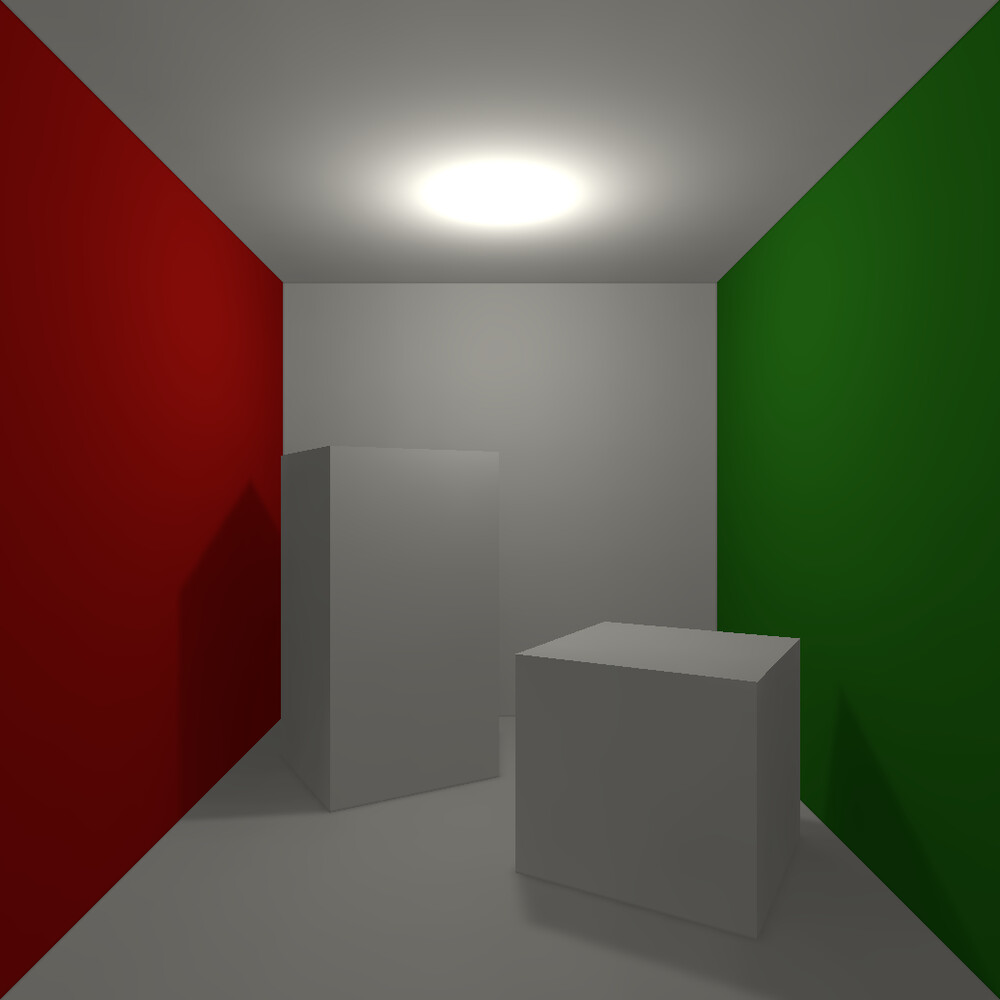
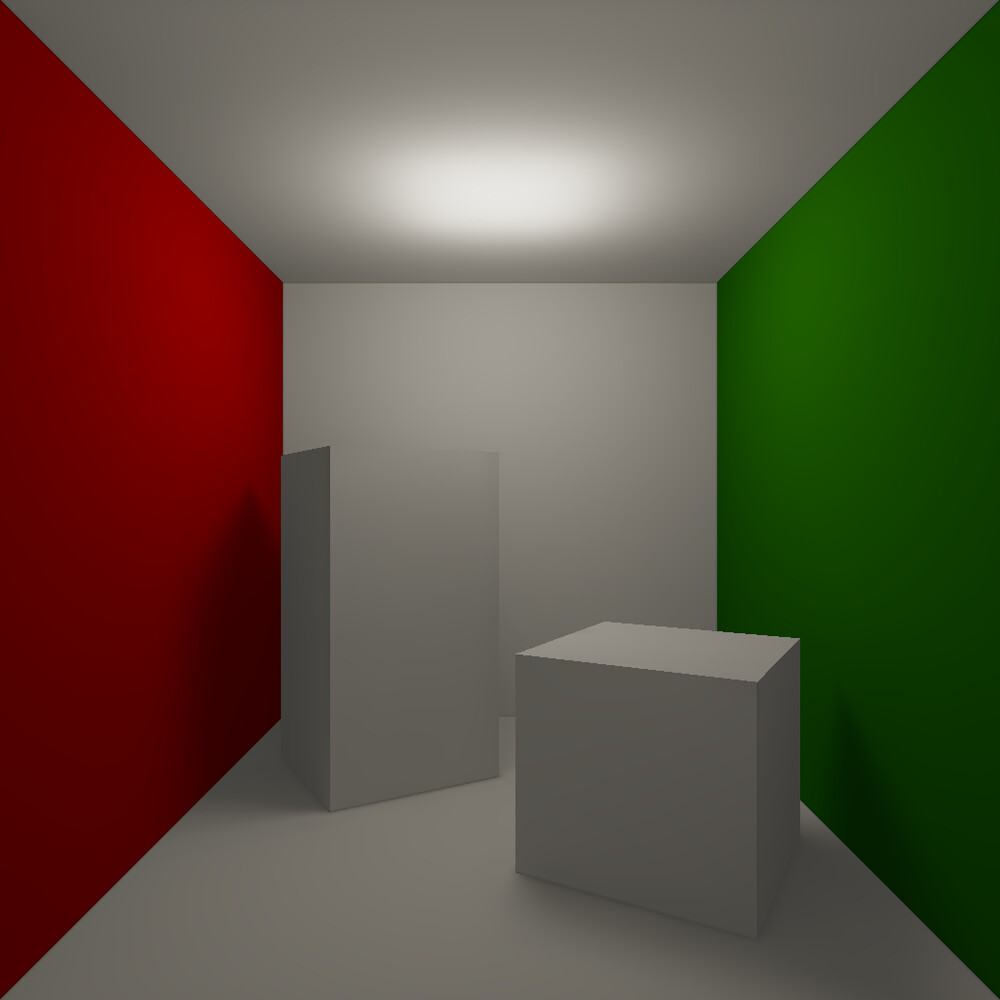
Lightmapper post: hierarchical radiosity - a section on the bounce between walls with pictures of how it links a texel, every picture baked again with patches under AgX at four units a texel or finer, a Cornell box lit by a glowing panel set in its ceiling, and its switchable version under sixteen l

Changed region(s): [[0.403, 0.155, 0.589, 0.248]]

diff --git a/blog/lightmapper/index.html b/blog/lightmapper/index.html
@@ -4,9 +4,9 @@
 <meta charset="utf-8">
 <meta name="viewport" content="width=device-width, initial-scale=1">
 <title>Hammerite's lightmapper — Misukatti Interactive</title>
-<meta name="description" content="How Hammerite's GPU radiosity lightmapper works, step by step: BVHs and charts, direct light, progressive radiosity through irradiance probes, four switchable light slots per surface, colour bleed for switchable light, refraction, caustics and reflection in water, how baked and real-time light meet in the shader, and reproducible bakes.">
+<meta name="description" content="How Hammerite's GPU radiosity lightmapper works, step by step: BVHs and charts, direct light, hierarchical radiosity between the walls, four switchable light slots per surface, colour bleed for switchable light, refraction, caustics and reflection in water, how baked and real-time light meet in the shader, and reproducible bakes.">
 <meta property="og:title" content="Hammerite's lightmapper">
-<meta property="og:image" content="https://misukatti.fi/blog/lightmapper/cornell-bleed-on.jpg">
+<meta property="og:image" content="https://misukatti.fi/blog/lightmapper/cornell-panel.jpg">
 <meta property="og:url" content="https://misukatti.fi/blog/lightmapper/">
 <meta property="og:type" content="article">
 <link rel="canonical" href="https://misukatti.fi/blog/lightmapper/">
@@ -37,15 +37,15 @@
 			<p class="post-meta"><time datetime="2026-10">October 2026</time> · Hammerite</p>
 			<h1>Hammerite's lightmapper</h1>
 			<p class="post-lede">Hammerite bakes light into lightmaps on the GPU: direct light with soft
-			shadows, and bounced light by progressive radiosity through a set of irradiance probes. A stealth
+			shadows, and bounced light by hierarchical radiosity between the walls. A stealth
 			game also needs light that changes while the game runs, so every surface holds four switchable
 			lights next to its static light, and the switchable light bounces in colour too. This post goes
 			through the whole pipeline, step by step.</p>
 		</header>
 
 		<figure>
-			<img src="cornell-bleed-on.jpg" alt="A Cornell box baked in Hammerite: a red wall on the left, a green wall on the right, two white blocks, lit by a switchable lamp under the ceiling, with red and green light bounced onto the blocks and the floor" width="1000" height="1000">
-			<figcaption>A Cornell box, baked in Hammerite at 4 units a texel and lit by one switchable lamp.</figcaption>
+			<img src="cornell-panel.jpg" alt="A Cornell box baked in Hammerite: a red wall on the left, a green wall on the right, two white blocks, lit by a glowing panel set into the ceiling, with red and green light bounced onto the blocks, the floor and the ceiling" width="1000" height="1000">
+			<figcaption>A Cornell box, baked in Hammerite at 4 units a texel, lit by a glowing panel set into the ceiling.</figcaption>
 		</figure>
 
 		<h2>Why lightmaps</h2>
@@ -57,8 +57,9 @@
 		Hammerite bakes everything it can, and makes the baked light switchable.</p>
 		<p>The first version, in 2024, did radiosity on the CPU, and it did not scale. Classic radiosity
 		trades light between every pair of patches that can see each other, so the work grows with the
-		square of the level. In 2025 I moved the whole bake to the GPU, as compute shaders, and changed how
-		the bounce is done.</p>
+		square of the level. In 2025 I moved the whole bake to the GPU, as compute shaders, and relayed the
+		bounce through light probes. In 2026 the bounce went back to the walls, as hierarchical radiosity,
+		which gives each pair of surfaces only as much detail as the light between them needs.</p>
 
 		<h2>The pipeline</h2>
 		<p>A bake has four parts. The level is prepared on the CPU, the light is transferred on the GPU, the
@@ -109,9 +110,9 @@
 						<text x="658" y="63">Texels</text>
 						<text x="58" y="203">Direct</text>
 						<text x="178" y="203">Water</text>
-						<text x="298" y="203">Gather</text>
+						<text x="298" y="203">Links</text>
 						<text x="418" y="203">Bounce ×N</text>
-						<text x="538" y="203">Distribute</text>
+						<text x="538" y="203">To texels</text>
 						<text x="658" y="203">Settle slots</text>
 						<text x="58" y="343">Group</text>
 						<text x="178" y="343">Pack</text>
@@ -127,17 +128,17 @@
 						<text x="658" y="483">light()</text>
 					</g>
 					<g fill="#c9bd9a" font-size="10.5">
-						<text x="58" y="104">walls and air</text>
+						<text x="58" y="104">for what moves</text>
 						<text x="178" y="104">light groups</text>
 						<text x="298" y="104">brushes, props</text>
 						<text x="418" y="104">planar projection</text>
 						<text x="538" y="104">faces that join</text>
-						<text x="658" y="104">one patch each</text>
+						<text x="658" y="104">trees of squares</text>
 						<text x="58" y="244">4 shadow rays</text>
 						<text x="178" y="244">mirrors, caustics</text>
-						<text x="298" y="244">patches → probes</text>
-						<text x="418" y="244">probes → probes</text>
-						<text x="538" y="244">probes → texels</text>
+						<text x="298" y="244">refined to the light</text>
+						<text x="418" y="244">gather, push, pull</text>
+						<text x="538" y="244">nine leaves each</text>
 						<text x="658" y="244">brightest four</text>
 						<text x="58" y="384">≤ 4 lights a set</text>
 						<text x="178" y="384">512² atlases</text>
@@ -175,11 +176,11 @@
 		watchdog never kills it. A cancelled bake puts the old lighting back.</p>
 
 		<h2>Preparing the level</h2>
-		<p><strong>Probes.</strong> The bounce goes through light probes, so they are placed first.
-		<em>Surface probes</em> sit on a 64-unit grid over every wall and every face of detail brushwork, one
-		unit out into the air, and each gets the area of surface around it. <em>Volume probes</em> sit on a
-		64-unit lattice through the air, kept away from the walls. Both are irradiance probes: they measure
-		the light that arrives at a point.</p>
+		<p><strong>Probes.</strong> Things that move, a guard or a crate, are lit from light probes, so they
+		are placed first. <em>Surface probes</em> sit on a 64-unit grid over every wall and every face of
+		detail brushwork, one unit out into the air. <em>Volume probes</em> sit on a 64-unit lattice through
+		the air, kept away from the walls. Both are irradiance probes: they measure the light that arrives at
+		a point.</p>
 		<p><strong>Lights.</strong> Every light is static or switchable, decided by its entity type. Switchable
 		lights are put into <em>light groups</em>: lights with the same group name share one slot and are
 		switched together, and a light with no group gets one of its own.</p>
@@ -201,9 +202,9 @@
 			<figcaption>The lightmap density view: one checker square is one texel.</figcaption>
 		</figure>
 
-		<p><strong>Texels.</strong> Each texel becomes one <em>patch</em>, the unit radiosity works with. It
-		gets a position, a normal and a reflectance, which is the albedo of the texture under it,
-		converted from sRGB to linear. A ring of padding texels goes around every face. How much light a
+		<p><strong>Texels.</strong> Each texel gets a position, a normal and a reflectance, which is the albedo
+		of the texture under it, converted from sRGB to linear. The texels of each room's walls are then
+		grouped into trees of squares for the bounce, described below. A ring of padding texels goes around every face. How much light a
 		padding texel keeps depends on what meets the face at that edge: all of it past an open edge, none
 		of it behind a wall that stands against it. This keeps a wall's light from bleeding under the floor
 		next to it.</p>
@@ -237,35 +238,84 @@
 		BT.709 luma of the light, because its colour is applied when the level is drawn. That is what lets a
 		lamp change colour at runtime.</p>
 
-		<h2>Bounce: radiosity through irradiance probes</h2>
+		<h2>Bounce: hierarchical radiosity</h2>
 		<p>In classic radiosity every patch sends light to every other patch it can see, weighted by the
 		<em>form factor</em>, the share of one surface that another one sees:</p>
 		<p class="formula">F = cos θ<sub>s</sub> · cos θ<sub>r</sub> · A<sub>s</sub> / (π d²)</p>
-		<p>With 4 million patches that is far too many pairs. Hammerite relays the bounce through the
-		probes instead, in three steps:</p>
+		<p>With millions of texels that is far too many pairs. Quake 2's radiosity cut the walls into patches
+		of one size, 64 units across by default, and traded light between every pair of them. That keeps the
+		pairs down, but a shadow cast by bounced light is then a blur 64 units wide, and halving the patches
+		makes sixteen times the pairs.</p>
+		<p>Hammerite uses hierarchical radiosity, after Hanrahan, Salzman and Aupperle. Each room's walls in
+		each plane become a quadtree of squares on the lightmap's texel grid, from the whole wall down to 8
+		units or one texel. Each prop becomes an octree of cubes. And each room as a whole is a
+		<em>cluster</em> of all of them, which only sends, like a body giving off light evenly in every
+		direction.</p>
+		<p>Two nodes are joined by a <em>link</em> at the coarsest level where little light passes between
+		them. How much could pass is the receiver's albedo and area, times the sender's light, times the
+		largest form factor the two could have if they were as close as their sizes let them be. When that
+		is more than a hundredth of what a leaf throws back, the larger end is split into its children and
+		each is tried again. A far, dim wall reaches a whole room in one link, while a near, bright one is
+		linked square by square.</p>
+
+		<figure class="atlas-row two">
+			<div>
+				<img src="radiosity-far.jpg" alt="A long hall seen from the end with the light. Its walls and ceiling are covered in coloured squares: large red, purple and blue ones near the camera, and small yellow and orange ones at the far end, around a white post marking one texel on the floor" width="1000" height="880" loading="lazy">
+				<p>From the far end of the hall</p>
+			</div>
+			<div>
+				<img src="radiosity-shadow.jpg" alt="The same hall from the far end, looking back at the pool of light and the block. The squares are small around the block and the pool, where a white post marks a texel on the floor, and large on the walls near the camera" width="1000" height="880" loading="lazy">
+				<p>Beside the pool of light</p>
+			</div>
+			<figcaption>What one texel's node on the floor takes its bounce from, marked by the white post. Each
+			square is a node it is linked to: 8 units across in yellow, 16 in orange, 32 in red, 64 in purple,
+			128 in blue and 256 in pale blue. Nearby walls are linked in small squares and far ones in large
+			squares. The first takes its light over 1,500 links, the second over 3,500.</figcaption>
+		</figure>
+
+		<p>The links are made twice. First against the direct light, and then against what two bounces over
+		those links add, because by the direct light alone every wall the lamps miss looks dark, and would
+		be linked coarsely. A link that sees its sender only in part is split, up to three more times, until
+		each one sees all of it or none. That is what gives a shadow cast by bounced light its edge.</p>
+		<p>What a link sees is traced with sixteen rays between texels of its two ends, spread over both so
+		that the first rays already cross both of them, and more for a link that carries a lot of light. It
+		is kept in half a byte per link.</p>
+
+		<figure>
+			<img src="radiosity-lit.jpg" alt="A long white hall lit only by one spot shining on the floor at the far end. The walls and ceiling around the pool of light glow with bounced light, and the block beside the pool casts a soft dark shadow on the ceiling above it" width="1000" height="880" loading="lazy">
+			<figcaption>The hall, lit. Everything but the pool on the floor is bounced light, and the block
+			casts a shadow of it on the ceiling.</figcaption>
+		</figure>
+
+		<p>A bounce is four GPU passes over the nodes:</p>
 		<ol>
-			<li><strong>Gather.</strong> Each probe collects the light reflected by the patches it can see,
-			within 768 units, using the same form factor and one visibility ray per patch. Far away patches
-			are clustered: within 64 by 64 units of one wall they are read as one sender from their
-			area-weighted centre, with one ray instead of sixteen. Before the clustering, the gather on my
-			reference level traced four billion rays.</li>
-			<li><strong>Bounce.</strong> The surface probes pass light between each other, once per bounce.
-			Each pass sends only what arrived in the pass before, the <em>unshot</em> energy, which is the idea
-			behind progressive refinement radiosity. The sender multiplies by its wall's reflectance, so a red
-			wall throws back red light and a dark wall throws back little.</li>
-			<li><strong>Distribute.</strong> Every texel interpolates the eight nearest surface probes that it
-			can see, weighted by distance and by how much their walls face the same way. The texel's own albedo
-			is not applied here: the shader does that.</li>
+			<li><strong>Gather.</strong> Every node collects what its senders send over its links: their light,
+			times what they throw back, times the form factor and what the link sees.</li>
+			<li><strong>Push.</strong> What reached each node goes down its tree. A child takes it from the nine
+			squares around its parent, weighted by a quadratic B-spline, so light that lands high in a tree
+			lies on the wall smoothly rather than in squares.</li>
+			<li><strong>Keep.</strong> The leaves add it to what they have had, and send it next.</li>
+			<li><strong>Pull.</strong> What the leaves send is summed back up their trees, so a link to a large
+			square sends what all of its leaves do.</li>
 		</ol>
-		<p>The volume probes gather too, but they never send. They are there for things that move.</p>
-		<p>I checked the result against the theory: a room with dark walls bounces about 12% of its direct
-		light back into itself, close to the 11% that the walls' reflectance predicts.</p>
+		<p>The bounces run until one adds less than 1% of the light, up to 32 of them. Then every texel takes
+		the nine leaves around it on its wall, again with B-spline weights, so the light bends nowhere.</p>
+		<p>Light keeps its colour on the way. What a node sends carries the colour that light arrived in, as
+		well as the colour of its own wall, so a white floor lit by a red wall throws red light on.</p>
+		<p>The cost grows with the detail that matters. Twice the lightmap resolution makes four times the
+		leaves, and on a test room the links grew 4.04 times, where patches of one size would have needed
+		sixteen. A closed grey room gives back 0.995 of what infinitely many bounces can, where patches of one
+		size gave back 0.94. The probe bounce Hammerite used before gave back 1.08 at four bounces, more
+		light than a room has, and a hall under a lamp grew brighter with every bounce after that.</p>
+		<p>Probes are still baked, from the same light, for the things that move. The Lightmap panel's
+		<em>Bounce</em> setting chooses between the probe bounce and the patches. Every picture in this post
+		is baked with the patches.</p>
 
 		<h2>Four light slots</h2>
 		<p>Each atlas has a <strong>static texture</strong> in RGB, for the light that never changes:
 		static lamps, daylight, glowing textures and all of their bounce. Next to it is a <strong>slot
 		texture</strong> in RGBA, which holds up to four switchable lights, one in each channel, each at full
-		strength and without colour. Both are 32-bit float.</p>
+		strength and without colour. Both are kept in half floats.</p>
 		<p>Below is the slot atlas of a room with four switchable lamps in its corners. Pick a channel to
 		see one lamp's light on its own, as it is stored. <em>All</em> shows the four together, each in its
 		lamp's colour, the way the shader adds them up.</p>
@@ -273,7 +323,7 @@
 		<figure class="slot-viewer">
 			<div class="slot-pictures">
 				<img src="slot-room.jpg" alt="A square room with a pillar in the middle, lit by four switchable lamps in its corners: red, green, blue and yellow" width="1000" height="774" loading="lazy">
-				<img class="slot-atlas" src="slot-all.png" alt="The room's slot atlas with all four channels, each in its lamp's colour" width="369" height="444" loading="lazy">
+				<img class="slot-atlas" src="slot-all.png" alt="The room's slot atlas with all four channels, each in its lamp's colour" width="458" height="488" loading="lazy">
 			</div>
 			<div class="slot-buttons" role="group" aria-label="Slot channel">
 				<button type="button" data-slot="all" aria-pressed="true">All</button>
@@ -300,7 +350,8 @@
 		texel would multiply the size of the atlases, so Hammerite stores it in two small textures instead.</p>
 		<p>While the bounce runs, every texel keeps a <em>chroma</em> vector for each slot: the light of that
 		slot that arrived coloured, in its colour. It is carried through every bounce at the same energy as
-		the bounce itself, so its luma is exactly the bounced part of the slot. When the atlas is written,
+		the bounce itself, so its luma is exactly the bounced part of the slot, and it keeps the colour of
+		every wall it came off. When the atlas is written,
 		that becomes:</p>
 		<ul>
 			<li><strong>A tint</strong> T: the sum of a texel's chroma vectors, scaled so its brightest channel
@@ -314,30 +365,32 @@
 		the same brightness. Light that came through tinted glass or water is counted as coloured too. It is
 		exact when every slot of a texel bounced in the same colour, which is nearly always the case, since
 		they bounced off the same walls.</p>
-		<p>Here is the same box with the colour bleed of its switchable lamp off and on:</p>
+		<p>Here is the box lit by switchable light instead: sixteen lamps under the ceiling in one light
+		group, so one slot, with the colour bleed off and on.</p>
 
 		<figure>
 			<div class="compare" style="--split: 50%">
-				<img src="cornell-bleed-off.jpg" alt="The Cornell box with the colour bleed of the switchable lamp turned off: the white blocks and floor are grey" width="1000" height="1000" loading="lazy">
-				<img class="compare-after" src="cornell-bleed-on.jpg" alt="The same Cornell box with colour bleed on: red light on the left sides of the blocks and the floor, green on the right" width="1000" height="1000" loading="lazy">
+				<img src="cornell-bleed-off.jpg" alt="The Cornell box lit by switchable lamps, with their colour bleed turned off: the white blocks and floor are grey" width="1000" height="1000" loading="lazy">
+				<img class="compare-after" src="cornell-bleed-on.jpg" alt="The same Cornell box with colour bleed on: red light on the sides of the blocks facing the red wall, green on the sides facing the green one" width="1000" height="1000" loading="lazy">
 				<span class="compare-label">Off</span>
 				<span class="compare-label compare-label-after">On</span>
 				<span class="compare-handle" aria-hidden="true"></span>
 				<input type="range" min="0" max="100" value="50" aria-label="Drag to compare colour bleed off and on">
 			</div>
-			<figcaption>Drag to compare. The light is the same, only how much of the bounce takes its colour changes.</figcaption>
+			<figcaption>Drag to compare. The light is the same, only whether the bounce takes its colour
+			changes.</figcaption>
 		</figure>
 
 		<figure class="atlas-row two">
 			<div>
-				<img src="ct-tint.png" alt="The Cornell box's tint atlas: faces near the red wall reddish, faces near the green wall greenish" width="966" height="642" loading="lazy">
+				<img src="ct-tint.png" alt="The Cornell box's tint atlas: faces near the red wall reddish, faces near the green wall greenish" width="888" height="944" loading="lazy">
 				<p>Tint</p>
 			</div>
 			<div>
-				<img src="ct-share.png" alt="The Cornell box's share atlas in greyscale: dark where the lamp shines directly, bright in the corners and under the blocks" width="966" height="642" loading="lazy">
+				<img src="ct-share.png" alt="The Cornell box's share atlas in greyscale: dark where the lamp shines directly, bright in the corners and under the blocks" width="888" height="944" loading="lazy">
 				<p>Share of the slot that bounced</p>
 			</div>
-			<figcaption>The two chroma textures of the Cornell box. The share is high where the lamp cannot reach and the light is all bounce.</figcaption>
+			<figcaption>The two chroma textures of the switchable Cornell box. The share is high where the lamps cannot reach and the light is all bounce.</figcaption>
 		</figure>
 
 		<h2>Water: refraction, caustics and reflection</h2>
@@ -371,7 +424,7 @@
 		The surface of the water ripples with the same pattern at the same speed, so the surface and the
 		light under it never drift apart.</p>
 		<p>Caustics are measured only along real paths through the water, in the direct pass. They are not
-		spread through the probes, which would put them on walls that never saw the pool.</p>
+		spread through the bounce, which would put them on walls that never saw the pool.</p>
 		<p><strong>Reflection.</strong> A lit pool throws its own shape onto the walls and the ceiling. A pass
 		after the direct light treats every texel of a water surface as a small mirror. The light it reflects
 		goes one way, mirrored about the water's normal, into a cone as wide as the water is disturbed, and
@@ -440,7 +493,7 @@
 		can be saved as presets of your own.</p>
 
 		<figure>
-			<img src="lighting-bake.png" alt="The Hammerite editor with the Lightmap panel on its Fancy preset, showing the bake settings beside two lit rooms" width="1092" height="707" loading="lazy">
+			<img src="lighting-bake.png" alt="The Hammerite editor with the Lightmap panel set to bounce with patches, showing the bake settings beside two lit rooms" width="1092" height="707" loading="lazy">
 			<figcaption>The lightmap tool in the editor.</figcaption>
 		</figure>
 
@@ -452,12 +505,19 @@
 		And the gather and the bounces are cut into parts sized to the GPU's speed, which changed where
 		floating-point sums were rounded. Each probe now keeps one running sum across the parts. On a large
 		imported level, two bakes used to differ on all but a few hundred of its 128,767 surfaces.</p>
+		<p>The bounce between the walls holds to the same. Its sight rays are random, but from seeds of each
+		link's own, so they are the same every time. And each pass stops at the end of its own dispatch: the
+		GPU runs threads in groups of 64, and the last group of one depth of the trees used to run on into the
+		next depth while its parents were still being written. Two bakes of one room differed on every texel,
+		by up to 3%.</p>
 		<p>The native code is also built without fused multiply-add, so it rounds the same way on every
 		machine.</p>
 
 		<h2>Numbers</h2>
 		<p>My reference level is large: 7,240 brushes, about 130,000 walls, 4.4 million patches, 54,000
-		probes and 736 lights. A full bake of it on a GTX 1070 Ti takes about 22 minutes. It used to take
+		probes and 736 lights. With the patches, its walls make 2.9 million nodes, two million of them
+		leaves, joined by 54 million links, and the bounce takes about two and a half minutes. A full bake
+		with the probe bounce, on a GTX 1070 Ti, takes about 22 minutes. It used to take
 		over two and a half hours, before the gather clustering and before the atlases were written in
 		native code.</p>
 
@@ -482,8 +542,10 @@
 			<a href="https://doi.org/10.1145/54852.378487">A progressive refinement approach to fast radiosity
 			image generation</a>. SIGGRAPH 1988. Shooting unshot energy, one pass at a time.</li>
 			<li>Pat Hanrahan, David Salzman and Larry Aupperle. <a href="https://graphics.stanford.edu/papers/rad/">A
-			rapid hierarchical radiosity algorithm</a>. SIGGRAPH 1991. Treating far away surfaces as one, which
-			the gather's clusters do in a much simpler way.</li>
+			rapid hierarchical radiosity algorithm</a>. SIGGRAPH 1991. Linking two surfaces only as finely as the
+			light between them needs, which is the bounce.</li>
+			<li>Brian Smits, James Arvo and Donald Greenberg. A clustering algorithm for radiosity in complex
+			environments. SIGGRAPH 1994. A group of surfaces sending as one, as a room's cluster does.</li>
 			<li>Michael F. Cohen and John R. Wallace. Radiosity and Realistic Image Synthesis. Academic Press,
 			1993.</li>
 			<li>Ian Ashdown. <a href="https://www.researchgate.net/publication/220690300_Radiosity_-_a_programmer's_perspective">Radiosity:
@@ -493,6 +555,8 @@
 			<li>Gene Greger, Peter Shirley, Philip M. Hubbard and Donald P. Greenberg.
 			<a href="https://doi.org/10.1109/38.656788">The irradiance volume</a>. IEEE Computer Graphics and
 			Applications, 1998. Light probes in the air for things that move.</li>
+			<li>id Software. <a href="https://github.com/id-Software/Quake-2-Tools">Quake II tools</a>, 1997.
+			qrad3, radiosity between patches of one size cut from the walls.</li>
 			<li>id Software. <a href="https://github.com/id-Software/Quake">Quake</a>, 1996. Lightmaps with up to
 			four light styles per face, switched and animated at runtime.</li>
 			<li>Gary McTaggart. <a href="https://drivers.amd.com/developer/gdc/D3DTutorial10_Half-Life2_Shading.pdf">Half-Life 2

diff --git a/blog/index.html b/blog/index.html
@@ -39,7 +39,7 @@
 				<a href="lightmapper/index.html">
 					<p class="post-meta"><time datetime="2026-10">October 2026</time> · Hammerite</p>
 					<h2>Hammerite's lightmapper</h2>
-					<p>How Hammerite bakes light on the GPU, step by step: radiosity through irradiance probes,
+					<p>How Hammerite bakes light on the GPU, step by step: hierarchical radiosity between the walls,
 					four switchable lights on every surface, colour bleed, water, and how the baked light meets
 					Godot's real-time lights.</p>
 				</a>
